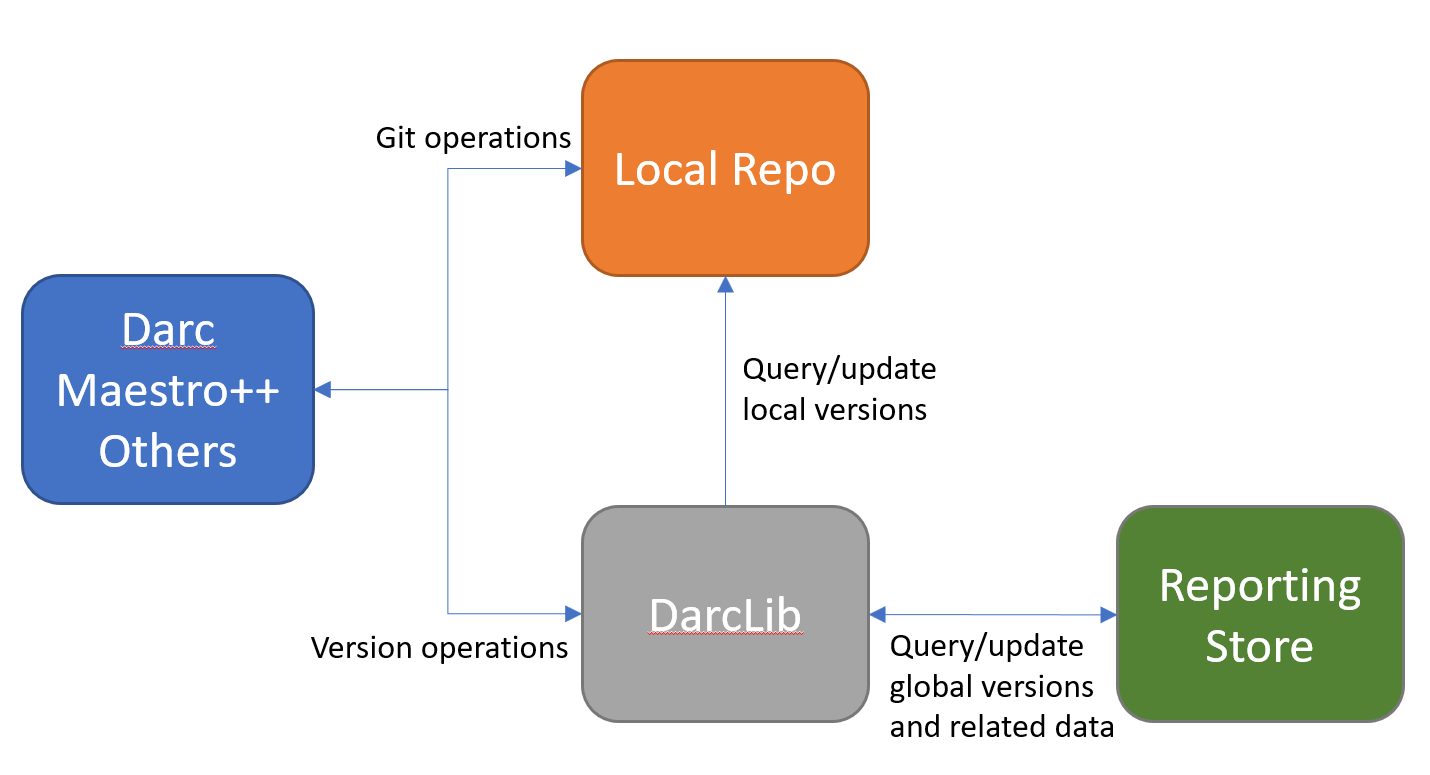
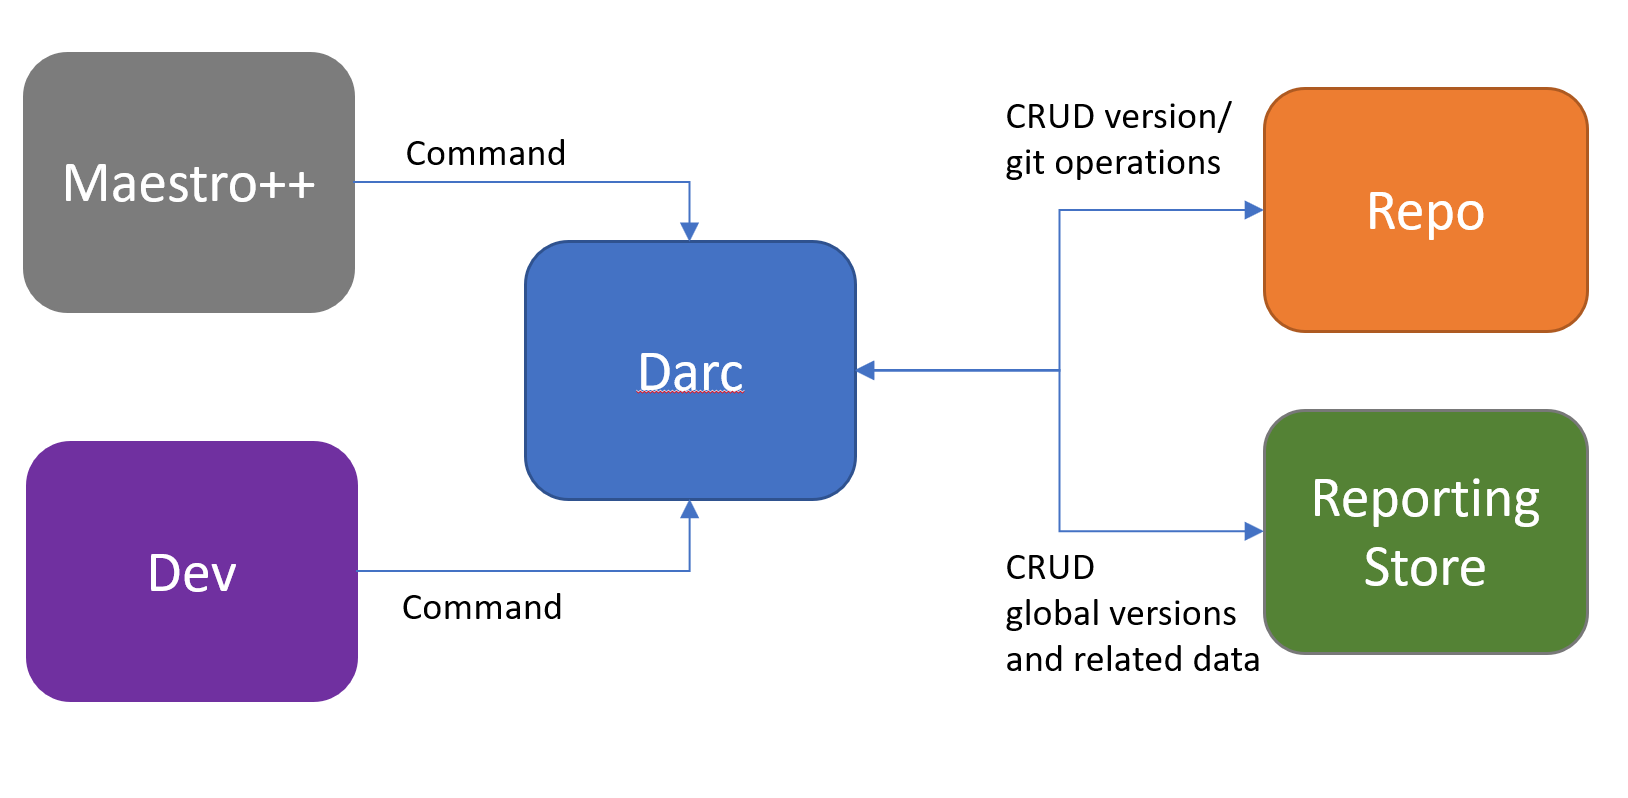
Changes after meeting

diff --git a/Documentation/VersionQueryingAndUpdating.md b/Documentation/VersionQueryingAndUpdating.md
@@ -13,8 +13,7 @@ The process of reading and updating scripts in the repos will change
 depending on the environment where the operation is being executed, i.e. 
 Maestro++ for remote, Darc for local. Darc and Maestro++ are responsible 
 for obtaining repo inputs and handling outputs. The mechanics of 
-querying, reading and updating versions will be contained in the DarcLib 
-class library. 
+querying, reading and updating versions will be contained in Darc. 
 
 ![Diagram](VersionQueryingAndUpdating.png) 
 
@@ -32,8 +31,7 @@ updated in participating repos.
 
 For each participant repo: 
 
-1. Dev uses Darc to update a dependency in current repo (the update 
-itself is done through DarcLib) 
+1. Dev uses Darc to update a dependency in current repo
 2. Dev uses Darc to commit and push the update 
 3. Dev uses Darc to create the Auto-PR 
 4. Auto-PR is approved and merged by dev 
@@ -45,10 +43,10 @@ GitHub webhooks monitoring changes in files like bootstrapping scripts
 or even a manually 
 2. Maestro++ uses Darc to determine which need to be updated 
 3. For each repo which needs the update Maestro++: 
-    1. Uses Darc to update a dependency in current repo (the update itself is done 
-through DarcLib) 
+    1. Uses Darc to update a dependency in current repo
     2. Uses Darc to commit and push the update 
-    3. Auto-PR is approved and merged 
+    3. Auto-PR is approved and merged. Initially even though a PR is
+    created by Maestro++ it will require a human to approve
 
 #### How to find out who’s using package n, and what versions are out there 
 
@@ -57,20 +55,18 @@ through DarcLib)
 
 #### How to determine the versions of the packages contained in a final build 
 
-1. Dev/Maestro++ uses Darc to query for build version v 2. Darc returns 
-the dependency graph under build v 
+1. Dev/Maestro++ uses Darc to query for build version v 
+2. Darc returns the dependency graph under build v 
 
 ## Components 
 
-### DarcLib 
+### Darc 
 
-Class library used by Darc, Maestro++, etc. to perform version operation 
-on participating .Net Core repos. Its main focus is the mechanics of 
-reading and writing version information in the local repo which it is 
-being executed in but also it is able to query and update the global 
-version reporting store. 
+A command line tool which perform version operations on participating .Net Core repos. 
+It contains the mechanics of reading and writing version information in a repo as well as to query 
+and update the global version reporting store.  Its functionality is: 
 
-DarcLib will be able to: 
+#### Input: dependency data 
 
 * Query dependencies in `Version.Details.xml` 
 * Query sha+repositories for dependencies in `Version.Details.xml` 
@@ -82,29 +78,22 @@ used
 
 You can find more information about dependency descriptions [here](DependencyDescriptionFormat.md) 
 
-### Darc 
-
-A command line tool which consumes DarcLib and which purpose is to query and update 
-version information from repositories. Its functionality is: 
-
 #### Input: local repository 
-* Query versioned items in repo's `Version.Details.xml` (using DarcLib) 
-* Query shas+repositories for dependencies in the repo's `Version.Details.xml` (using DarcLib) 
-* Query shas+repositories for all downstream dependencies (using DarcLib) 
-* Alter the package+version+sha+repository information in `Version.Details.xml` (using DarcLib) 
+* Query versioned items in repo's `Version.Details.xml`
+* Query shas+repositories for dependencies in the repo's `Version.Details.xml`
+* Query shas+repositories for all downstream dependencies
+* Alter the package+version+sha+repository information in `Version.Details.xml`
     * Add new dependency 
     * Change existing dependency 
     * Remove dependency 
 
 #### Input: sha+repo 
-* Query reporting system for versioned items produced by sha+repository (using DarcLib) 
+* Query reporting system for versioned items produced by sha+repository
 * Query reporting system for versioned items in which this sha+repository is referenced 
-(using DarcLib) 
 * Query reporting system for shas+repositories in which this sha+repository is referenced 
-(using DarcLib) 
 
 #### Input: package+version 
-* Query binary (if known format) for sha+repository (using DarcLib) 
+* Query binary (if known format) for sha+repository
 
 #### Common functionality 
 * Create source layout for matching versions in repo dependency tree. 
@@ -113,20 +102,13 @@ package+version
 
 ### Maestro++ 
 * Identify when there is an update in Arcade’s scripts/dependencies and 
-    * Add new dependency (using DarcLib for versions) 
-    * Change existing dependency (using DarcLib for versions) 
-    * Remove dependency (using DarcLib for versions) 
+    * Add new dependency (using Darc for versions) 
+    * Change existing dependency (using Darc for versions) 
+    * Remove dependency (using Darc for versions) 
 for each participating repo depending on each repo’s subscriptions 
 
 ### Darc Vs. Maestro++ 
 
-The main difference between these two is that Darc should be used in 
-single local and Maestro++ when a change has to be applied to all 
-participating repos. Maestro++’s role could also be done by Darc but 
-since it is a manual work the dev would need to do the same in N repos 
-where N represents the number of participating repos. 
-
-Also, Maestro++ could use Darc to deal with all the updates in which 
-case the only notion Maestro++ has about the process is which repos to 
-update and the subscriptions of each. 
-
+Mestro++ based on times or triggers (i.e. a change in a file) flows the new dependency
+into subscribed repos using Darc. Darc makes the required updates, commits the changes
+and starts a new PR.
